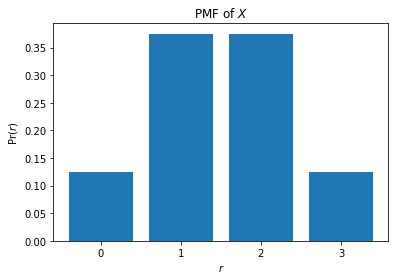
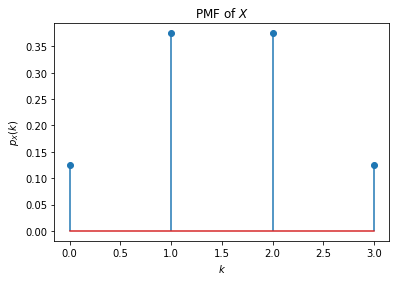
Add files via upload

diff --git a/Assignment14/Assignment14.tex b/Assignment14/Assignment14.tex
@@ -76,7 +76,9 @@ columns=fullflexible
 \newtheorem{corollary}[theorem]{Corollary}
 \newtheorem{example}{Example}[section]
 \newtheorem{definition}[problem]{Definition}
-
+\newcommand*{\permcomb}[4][0mu]{{{}^{#3}\mkern#1#2_{#4}}}
+\newcommand*{\perm}[1][-3mu]{\permcomb[#1]{P}}
+\newcommand*{\comb}[1][-1mu]{\permcomb[#1]{C}}
 \newcommand{\BEQA}{\begin{eqnarray}}
 \newcommand{\EEQA}{\end{eqnarray}}
 \newcommand{\define}{\stackrel{\triangle}{=}}
@@ -158,28 +160,18 @@ where
     X_i &= \{2,-1.5\}
 \end{align}
 
-Assuming a fair coin,the probability mass function of $X$ is given by
+$\because$ Tossing a coin three times is said to have binomial distribution .
+
+$\therefore$ $X$ has binomial distribution .
+
+Now,assuming a fair coin,the probability mass function of $X$ is given by
 \begin{align}
-   \pr{r,n,p} &= \frac{n!}{r!(n-r)!}p^r (1-p)^{n-r}
+   p_{X}(k) &= \comb{n}{k} p^k (1-p)^{n-k} 
 \end{align}
 where
 \begin{align}
-    n=3,p=\frac{1}{2},r=0,1,2,3
+    n=3,p=\frac{1}{2},k=0,1,2,3
 \end{align}
-
-\numberwithin{table}{section}
-\begin{table}[!ht]
-\centering
-\begin{tabular}{|c|c|c|c|c|} 
-\hline
-$r$ & 0 & 1 & 2 & 3 \\
-\hline
-\pr{r} & $\frac{1}{8}$ & $\frac{3}{8}$ & $\frac{3}{8}$ & $\frac{1}{8}$ \\
-\hline
-\end{tabular}
-\caption{PMF of $X$}
-\label{tab:table1}
-\end{table}
 
 \numberwithin{figure}{section}
 \begin{figure}[!ht]

diff --git a/Assignment14/Assignment14.py b/Assignment14/Assignment14.py
@@ -28,11 +28,8 @@ for i in range(n+1) :
   print(str(r_values[i]) + "\t" + str(dist[i]))
 
 #Plotting the pmf graph
-data = {'0':1/8, '1':3/8, '2':3/8, '3':1/8}
-key = list(data.keys())
-value = list(data.values())
-plt.bar(key,value)
-plt.xlabel("$r$")
-plt.ylabel("Pr($r$)")
+plt.stem(r_values,dist,use_line_collection = True)
+plt.xlabel("$k$")
+plt.ylabel("$p_{X}(k)$")
 plt.title("PMF of $X$")
 plt.show()
